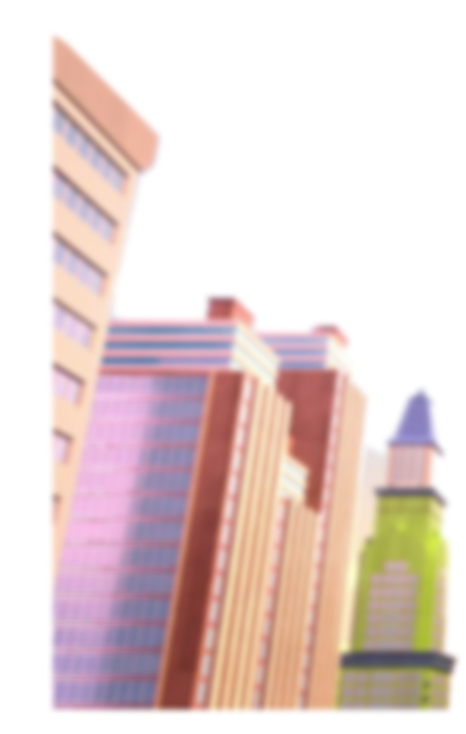
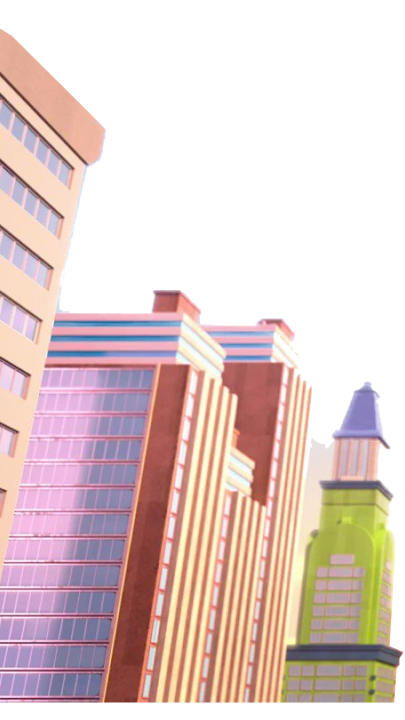
iniciado armado de section 1

diff --git a/tp-4/css/styles.css b/tp-4/css/styles.css
@@ -1,0 +1,83 @@
+@import url(layout-classes.css);
+
+body {
+    width: 1280px;
+    /* padding: 0px 100px 0px 100px; */
+    margin-left: 128px;
+    background-color: black;
+}
+
+header {
+    height: 118px;
+    /* background-color: blueviolet; */
+    background-color: #5499F8;
+}
+
+section.sec1 {
+    width: inherit;
+    height: 720px;
+    background: url(../resources/section-1/background.png) no-repeat;
+    overflow: hidden;
+}
+
+.sec1 .main-figures {
+    width: inherit;
+}
+
+.sec1 .main-figures .main-title {
+    top: -32px;
+    left: 330px;
+}
+
+.sec1 .main-figures .main-characters {
+    width: 998px;
+    height: 533px;
+    margin: 209px 192px 0px 90px;
+}
+
+.sec1 .main-figures .main-characters img:nth-child(1) {
+    left: 0px;
+    top: 53px;
+}
+
+.sec1 .main-figures .main-characters img:nth-child(2) {
+    left: 314px;
+    top: 68px;
+}
+
+.sec1 .main-figures .main-characters img:nth-child(3) {
+    top: 0px;
+    right: 0px;
+}
+
+.sec1 .bg-items {
+    width: inherit;
+    height: 720px;
+    top: 0px;
+}
+
+.sec1 .bg-items div {
+    width: inherit;
+    height: inherit;
+}
+
+.sec1 .bg-items div img {
+    /* object-fit: none; */
+    filter: blur(3px);
+}
+
+.sec1 .bg-items div img:nth-child(1) {
+    left: 0px;
+    bottom: -18px;
+}
+
+.sec1 .bg-items div img:nth-child(2) {
+    left: 392px;
+    bottom: -1.5px;
+    width: 543.5px;
+}
+
+.sec1 .bg-items div img:nth-child(3) {
+    right: 0px;
+    bottom: -7.5px;
+}

diff --git a/tp-4/index.html b/tp-4/index.html
@@ -1,11 +1,34 @@
 <!DOCTYPE html>
 <html lang="en">
+
 <head>
     <meta charset="UTF-8">
     <meta name="viewport" content="width=device-width, initial-scale=1.0">
     <title>TPE 4</title>
+    <link rel="stylesheet" href="css/styles.css">
 </head>
+
 <body>
-    
+    <header></header>
+    <section class="sec1 relative">
+        <div class="main-figures z-index-1 absolute">
+            <div class="main-title absolute">
+                <img src="resources/section-1/name-title.png" alt="" srcset="">
+            </div>
+            <div class="main-characters flex-row relative">
+                <img class="absolute" src="resources/section-1/character-1.png" alt="" srcset="">
+                <img class="absolute" src="resources/section-1/character-2.png" alt="" srcset="">
+                <img class="absolute" src="resources/section-1/character-3.png" alt="" srcset="">
+            </div>
+        </div>
+        <div class="bg-items absolute">
+            <div class="flex-row justify-center items-end z-index-0 relative">
+                <img class="absolute" src="resources/section-1/background-item-1.png" alt="" srcset="">
+                <img class="absolute" src="resources/section-1/background-item-2.png" alt="" srcset="">
+                <img class="absolute" src="resources/section-1/background-item-3.png" alt="" srcset="">
+            </div>
+        </div>
+    </section>
 </body>
+
 </html>

diff --git a/tp-4/css/layout-classes.css b/tp-4/css/layout-classes.css
@@ -1,0 +1,83 @@
+/* FLEX BASIC  */
+
+.flex-row {
+    display: flex;
+    flex-direction: row;
+}
+
+.flex-col {
+    display: flex;
+    flex-direction: column;
+}
+
+
+/* FLEX JUSTIFY */
+
+.justify-center {
+    justify-content: center;
+}
+
+.justify-space-between {
+    justify-content: space-between;
+}
+
+.justify-space-around {
+    justify-content: space-around;
+}
+
+.justify-space-evenly {
+    justify-content: space-evenly;
+}
+
+.justify-end {
+    justify-content: flex-end;
+}
+
+
+/* FLEX ALIGN */
+
+.items-start {
+    align-items: flex-start;
+}
+
+.items-end {
+    align-items: flex-end;
+}
+
+.items-center {
+    align-items: center;
+}
+
+
+/* Z INDEX */
+
+.z-index--1 {
+    z-index: -1;
+}
+
+.z-index-0 {
+    z-index: 0;
+}
+
+.z-index-1 {
+    z-index: 1;
+}
+
+.z-index-2 {
+    z-index: 2;
+}
+
+.z-index-3 {
+    z-index: 3;
+}
+
+
+/* POSITIONS */
+
+.absolute {
+    position: absolute;
+}
+
+.relative {
+    position: relative;
+}
